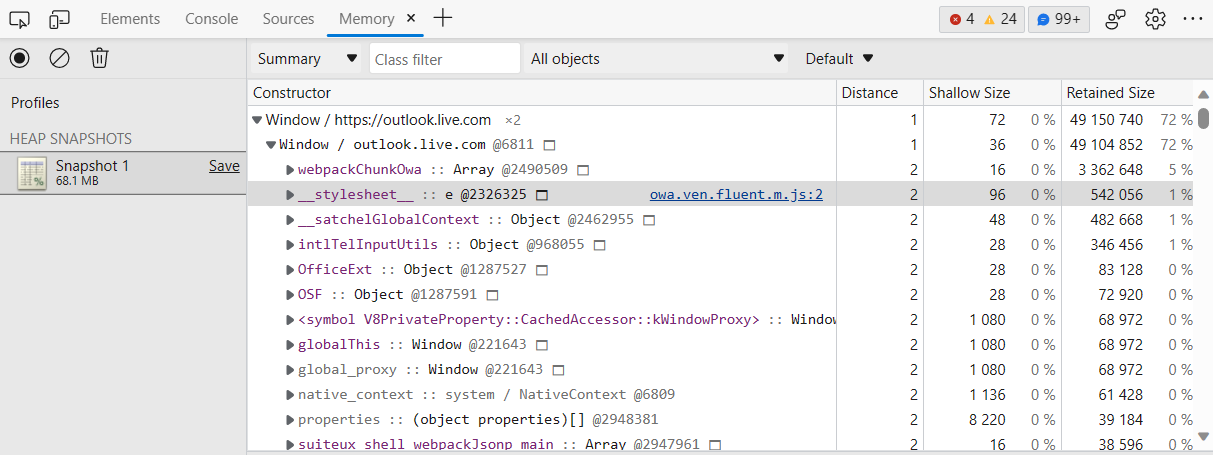
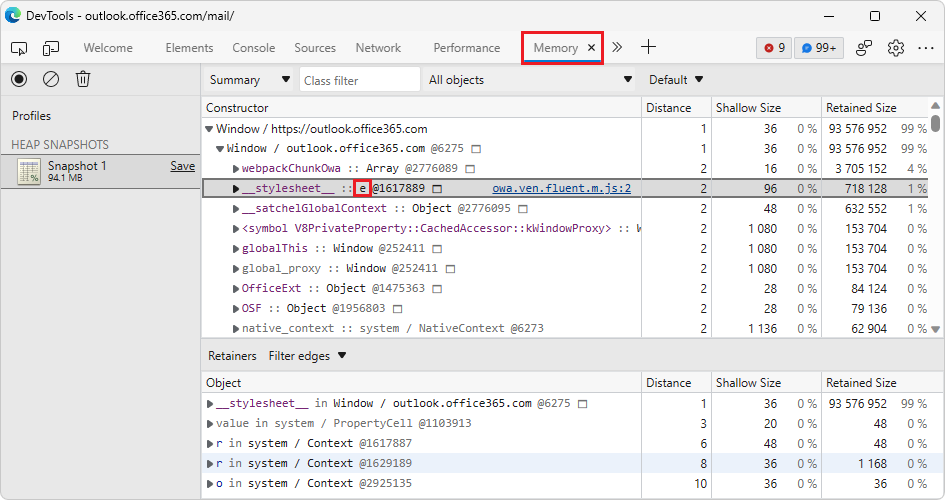
minified-snapshot png

Changed region(s): [[0.0, 0.0, 1.0, 1.0], [0.0, 0.2154, 0.0614, 0.2462]]

diff --git a/microsoft-edge/devtools-guide-chromium/whats-new/2023/05/devtools-113.md b/microsoft-edge/devtools-guide-chromium/whats-new/2023/05/devtools-113.md
@@ -64,6 +64,14 @@ In the following image, the minified object name `e` is shown in a heap snapshot
 Now in Microsoft Edge 113, the **Memory** tool automatically unminifies object names in the heap snapshot:
 
 ![A heap snapshot in the Memory tool displays unminified object names](./devtools-113-images/unminified-object-name-memory-tool.png)
+<!-- todo
+1. Open Edge Stable.
+2. Go to: https://outlook-sdf.office.com/mail/
+3. Don't show the Outlook UI - undock DevTools.
+4. Open DevTools > Memory.
+5. Take a heap snapshot.
+6. Expand Window, expand Window, find stylesheet e and draw a red box around e.
+-->
 
 See also:
 * [Securely debug original code by publishing source maps to the Azure Artifacts symbol server](../../../javascript/publish-source-maps-to-azure.md)
@@ -117,7 +125,7 @@ See also:
 <!-- ====================================================================== -->
 ## The Node Types filter in the Memory tool now only displays in the Summary view of a heap snapshot
 
-<!-- Subtitle: todo. -->
+<!-- Subtitle: The Containment and Statistics views for heap snapshots no longer display the Node Types filter, since the filter doesn't apply to those views. -->
 
 In [Microsoft Edge 100](../../2022/03/devtools-100.md#filter-heap-snapshots-summary-by-node-type), we added a **Node Types** filter to the **Memory** tool so you can focus only on specific types of objects, such as `Array` or `String`, when looking at a heap snapshot.  This **Node Types** filter only applies to objects that are displayed in the **Summary** view of a heap snapshot.
 
